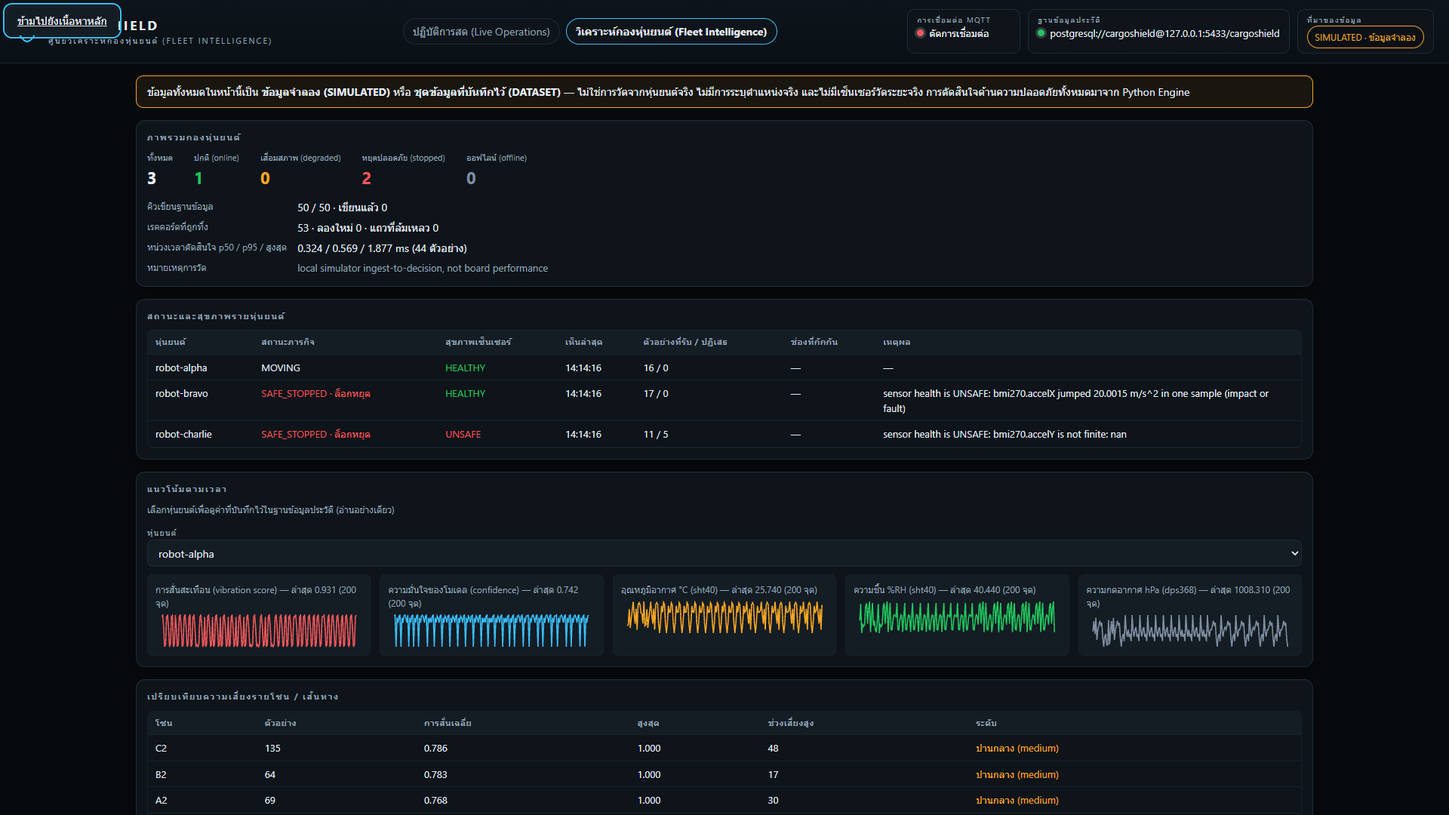
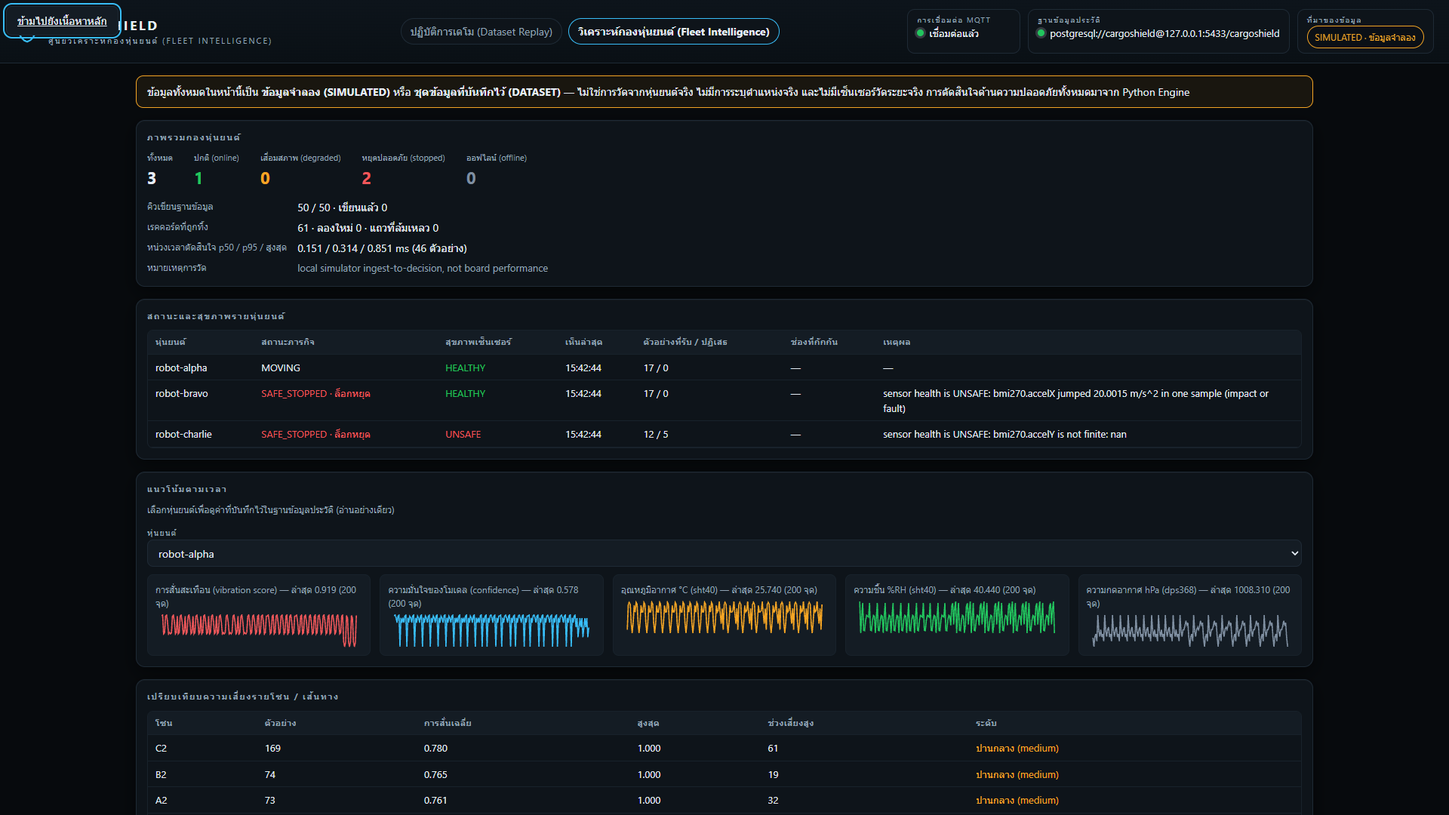
Clarify dataset replay provenance

diff --git a/webapp/index.html b/webapp/index.html
@@ -3,7 +3,7 @@
 <head>
 <meta charset="utf-8">
 <meta name="viewport" content="width=device-width, initial-scale=1">
-<title>CargoShield · ศูนย์ควบคุมหุ่นยนต์ 3 มิติ</title>
+<title>CargoShield · ศูนย์สาธิต Dataset Replay 3 มิติ</title>
 <link rel="icon" href="./favicon.svg" type="image/svg+xml">
 <link rel="stylesheet" href="./styles.css">
 <script type="importmap">
@@ -20,12 +20,12 @@
     </svg>
     <div>
       <h1>CargoShield</h1>
-      <p class="brand-sub">ศูนย์ควบคุมหุ่นยนต์ 3 มิติ</p>
+      <p class="brand-sub">ศูนย์สาธิต Dataset Replay 3 มิติ</p>
     </div>
   </div>
 
   <nav class="nav" aria-label="สลับหน้าจอ">
-    <a href="./index.html" aria-current="page">ปฏิบัติการสด (Live Operations)</a>
+    <a href="./index.html" aria-current="page">ปฏิบัติการเดโม (Dataset Replay)</a>
     <a href="./fleet.html">วิเคราะห์กองหุ่นยนต์ (Fleet Intelligence)</a>
   </nav>
 
@@ -43,7 +43,7 @@
       <span class="stat-value"><strong id="status" class="tone-idle" role="status" aria-live="polite">—</strong></span>
     </div>
     <div class="stat">
-      <span class="stat-key">สถานะล่าสุด</span>
+      <span class="stat-key">อัปเดตสถานะ MQTT ล่าสุด</span>
       <span class="stat-value" id="age">ยังไม่มีข้อมูล</span>
     </div>
   </div>
@@ -66,7 +66,7 @@
       <li><i class="swatch" style="--swatch:#ef4444"></i>เขตหยุดปลอดภัย</li>
     </ul>
 
-    <p class="stage-note">ภาพจำลองเท่านั้น — การตัดสินใจทั้งหมดมาจาก Python Engine</p>
+    <p class="stage-note">ภาพจาก Dataset Replay — ไม่ใช่ตำแหน่งหรือการวัดจากหุ่นยนต์จริง การตัดสินใจทั้งหมดมาจาก Python Engine</p>
     <div id="stage-fallback" class="stage-fallback" hidden role="alert">
       <strong>เบราว์เซอร์นี้ไม่รองรับ WebGL</strong>
       <span>ส่วนควบคุมและข้อมูลสถานะยังใช้งานได้ตามปกติ</span>
@@ -78,7 +78,7 @@
     <section class="panel">
       <h2>ควบคุมภารกิจ</h2>
       <div class="btn-row">
-        <button type="button" data-cmd="start" class="primary">เริ่มภารกิจ</button>
+        <button type="button" data-cmd="start" class="primary">เริ่ม Dataset Replay</button>
         <button type="button" data-cmd="pause">หยุดชั่วคราว</button>
         <button type="button" data-cmd="manual_resume">ทำงานต่อ / ปลด Safe Stop</button>
         <button type="button" data-cmd="reset" class="danger">รีเซ็ต</button>
@@ -119,15 +119,15 @@
     </section>
 
     <section class="panel">
-      <h2>สถานะภารกิจ</h2>
+      <h2>สถานะภารกิจเดโม</h2>
       <dl class="readout">
         <dt>สินค้า</dt><dd id="v-cargo_type">—</dd>
         <dt>โซน</dt><dd id="v-zone">—</dd>
         <dt>สิ่งกีดขวาง</dt><dd id="v-obstacle_distance">—</dd>
-        <dt>แหล่งข้อมูล</dt><dd id="v-source">—</dd>
+        <dt>โหมดข้อมูล</dt><dd id="v-source" class="wrap">—</dd>
       </dl>
       <p class="field">
-        <label for="v-progress">ความคืบหน้า <output id="progress-value" for="v-progress">—</output></label>
+        <label for="v-progress"><span id="progress-label">ความคืบหน้า</span> <output id="progress-value" for="v-progress">—</output></label>
         <progress id="v-progress" max="1" value="0"></progress>
       </p>
     </section>

diff --git a/webapp/app.js b/webapp/app.js
@@ -44,10 +44,19 @@ function toast(message, bad = false) {
 /* ---------------- controls ---------------- */
 
 const CARGO_LABELS = { standard: 'สินค้าทั่วไป', fragile: 'สินค้าเปราะบาง' };
-const PROVENANCE_LABELS = {
-  dataset: 'ชุดข้อมูลที่บันทึกไว้ ไม่ใช่การวัดสด',
-  simulated: 'ข้อมูลจำลอง',
-  hardware: 'ฮาร์ดแวร์จริง',
+const SOURCE_PRESENTATION = {
+  dataset: {
+    label: 'DATASET REPLAY · validation split แยกจาก train/test · ไม่ใช่การวัดสด',
+    progress: 'ความคืบหน้าการ Replay',
+  },
+  simulated: {
+    label: 'SIMULATION · ข้อมูลสังเคราะห์ · ไม่ใช่การวัดสด',
+    progress: 'ความคืบหน้าสถานการณ์จำลอง',
+  },
+  hardware: {
+    label: 'LIVE HARDWARE · การวัดสดจากอุปกรณ์',
+    progress: 'ความคืบหน้าภารกิจสด',
+  },
 };
 $('cargo').append(...CARGO_TYPES.map((value) => new Option(`${CARGO_LABELS[value]} (${value})`, value)));
 for (const select of [$('pickup'), $('destination')]) {
@@ -226,10 +235,10 @@ function render(state) {
   // The raw enum, kept out of the visible text so the label can be translated freely.
   statusNode.dataset.status = show(status);
   statusNode.dataset.states = String(++statesRendered);
-  // Provenance is stated in the contract's own vocabulary. `dataset` lowercase read as a config
-  // value; DATASET reads as the claim it actually is.
   const source = read(state, 'source');
-  $('v-source').textContent = source ? `${String(source).toUpperCase()} · ${PROVENANCE_LABELS[source] ?? 'ที่มาไม่ระบุ'}` : NA;
+  const presentation = SOURCE_PRESENTATION[source];
+  $('v-source').textContent = presentation?.label ?? (source ? `${String(source).toUpperCase()} · ที่มาไม่ระบุ` : NA);
+  $('progress-label').textContent = presentation?.progress ?? 'ความคืบหน้า';
   $('v-error').textContent = state?.error ?? state?.source_diagnostic ?? 'ไม่มี';
 
   const distance = read(state, 'obstacle_distance');

diff --git a/webapp/fleet.html b/webapp/fleet.html
@@ -24,7 +24,7 @@
   </div>
 
   <nav class="nav" aria-label="สลับหน้าจอ">
-    <a href="./index.html">ปฏิบัติการสด (Live Operations)</a>
+    <a href="./index.html">ปฏิบัติการเดโม (Dataset Replay)</a>
     <a href="./fleet.html" aria-current="page">วิเคราะห์กองหุ่นยนต์ (Fleet Intelligence)</a>
   </nav>
 

diff --git a/scripts/webapp_ui_check.py b/scripts/webapp_ui_check.py
@@ -205,6 +205,11 @@ def main() -> None:
             "age": page.inner_text("#age"),
             "rendered_before_any_click": True,
         }
+        evidence["provenance_ui"] = {
+            "source": page.inner_text("#v-source"),
+            "progress_label": page.inner_text("#progress-label"),
+            "start_button": page.inner_text('button[data-cmd="start"]'),
+        }
         evidence["webgl"] = {
             "canvas_visible": page.is_visible("#stage"),
             "fallback_shown": page.is_visible("#stage-fallback"),
@@ -238,6 +243,9 @@ def main() -> None:
             # Without WebGL the panels must carry the demo on their own, and neither variant may error.
             evidence["passed"] = (
                 evidence["passed"]
+                and "ไม่ใช่การวัดสด" in evidence["provenance_ui"]["source"]
+                and "replay" in evidence["provenance_ui"]["progress_label"].casefold()
+                and "dataset replay" in evidence["provenance_ui"]["start_button"].casefold()
                 and fallbacks["no_webgl"]["fallback_shown"]
                 and fallbacks["no_webgl"]["controls_usable"]
                 and not fallbacks["no_webgl"]["console_errors"]

diff --git a/tests/test_mqtt_service.py b/tests/test_mqtt_service.py
@@ -4,9 +4,11 @@ import unittest
 from pathlib import Path
 from types import SimpleNamespace
 
+import numpy as np
 
 from cargo.mqtt_service import DEMO_SEQUENCE, REPLAY_INTERVAL_S, CargoMqttService
 from cargo.routing import DEMO_GRAPH, choose_route
+from cargo.simulator import PROFILE_WINDOWS
 
 
 class _EmptySource:
@@ -166,6 +168,15 @@ class DemoReplaySequenceTests(unittest.TestCase):
         seconds = len(DEMO_SEQUENCE) * REPLAY_INTERVAL_S
         self.assertGreaterEqual(seconds, 8)
         self.assertLessEqual(seconds, 12)
+
+    def test_runtime_demo_windows_are_validation_only(self):
+        root = Path(__file__).resolve().parents[1]
+        with np.load(root / "models" / "split_indices.npz") as split:
+            runtime = set(DEMO_SEQUENCE)
+            runtime.update(index for windows in PROFILE_WINDOWS.values() for index in windows)
+            self.assertTrue(runtime <= set(split["validation"].tolist()))
+            self.assertTrue(runtime.isdisjoint(set(split["train"].tolist())))
+            self.assertTrue(runtime.isdisjoint(set(split["test"].tolist())))
 
     def test_replay_interval_is_configurable_independently_of_window_count(self):
         root = Path(__file__).resolve().parents[1]

diff --git a/cargo/mqtt_service.py b/cargo/mqtt_service.py
@@ -21,12 +21,10 @@ REPLAY_INTERVAL_S = 1.0
 # How long a new Start waits for a finished run's thread to exit before reporting a conflict.
 REPLAY_HANDOVER_TIMEOUT_S = 2.0
 
-# Curated dataset demonstration sequence, not an evaluation result: fixed indices into the
-# local CareerCon windows, chosen so one run exercises every low/medium/high vibration band
-# and both the confident and the below-threshold model responses. Predictions, confidences and
-# risk bands stay exactly what the trained model returns for these real stored windows;
-# held-out metrics come from reports/metrics.json alone.
-DEMO_SEQUENCE = (278, 279, 25, 26, 3, 1, 13, 42, 23, 280)
+# Curated validation-split replay, not an evaluation result: these train-disjoint CareerCon
+# windows exercise every low/medium/high vibration band and both confident and below-threshold
+# responses. The untouched test split remains reserved for metrics in reports/metrics.json.
+DEMO_SEQUENCE = (2460, 526, 2462, 5144, 2175, 1244, 2235, 5733, 2220, 1238)
 
 
 class CargoMqttService:

diff --git a/tests/test_webapp_controls.py b/tests/test_webapp_controls.py
@@ -74,6 +74,16 @@ class WebappControlsTests(unittest.TestCase):
         source = (WEBAPP / "app.js").read_text(encoding="utf-8")
         self.assertIn("client.publish(topic.command, payload, { qos: 1 })", source)
 
+    def test_operator_ui_labels_recorded_input_as_dataset_replay(self):
+        index = (WEBAPP / "index.html").read_text(encoding="utf-8")
+        fleet = (WEBAPP / "fleet.html").read_text(encoding="utf-8")
+        app = (WEBAPP / "app.js").read_text(encoding="utf-8")
+        self.assertNotIn("ปฏิบัติการสด", index + fleet)
+        self.assertIn("เริ่ม Dataset Replay", index)
+        self.assertIn('id="progress-label"', index)
+        self.assertIn("ไม่ใช่การวัดสด", app)
+        self.assertIn("ความคืบหน้าการ Replay", app)
+
     def test_every_display_path_exists_in_a_real_state_payload(self):
         client = FakeClient()
         service = CargoMqttService(ROOT, client=client, interval_s=0)

diff --git a/cargo/simulator.py b/cargo/simulator.py
@@ -28,12 +28,12 @@ from .sources import DatasetReplaySource
 
 HEALTHY, HIGH_VIBRATION, FAULTY = "healthy", "high_vibration", "faulty"
 
-# Windows chosen so each profile exercises a different part of the model's response. They are
-# indices into the stored dataset, not results.
+# Train-disjoint validation windows chosen so each profile exercises a different part of the
+# model's response. They drive a demo, never the held-out test metrics.
 PROFILE_WINDOWS = {
-    HEALTHY: (278, 279, 25, 26, 3),
-    HIGH_VIBRATION: (1, 13, 42, 23, 280),
-    FAULTY: (278, 25, 3, 42, 280),
+    HEALTHY: (2460, 526, 2462, 5144, 2175),
+    HIGH_VIBRATION: (1244, 2235, 5733, 2220, 1238),
+    FAULTY: (2460, 2462, 5144, 2220, 1238),
 }
 
 GRAVITY_MS2 = 9.81

diff --git a/cargo/maintenance.py b/cargo/maintenance.py
@@ -139,7 +139,7 @@ class MaintenanceContext:
             " ORDER BY reason LIMIT 20", (robot_id,))
         steps = [
             "Confirm the robot is powered down and physically safe to approach.",
-            "Record the current Safe Stop reason from Live Operations before clearing anything.",
+            "Record the current Safe Stop reason from the operator console before clearing anything.",
         ]
         for fault in faults:
             reason = str(fault["reason"])

diff --git a/important_notes/CARGOSHIELD_EDGE_PROJECT_SUMMARY.md b/important_notes/CARGOSHIELD_EDGE_PROJECT_SUMMARY.md
@@ -185,7 +185,7 @@ Obstacle distance = 20
 
 ### Curated dataset demonstration sequence
 
-รอบสาธิตใช้ชุด index คงที่ 10 หน้าต่างจากข้อมูลจริงในเครื่อง (`cargo.mqtt_service.DEMO_SEQUENCE`) เว้นระยะหน้าต่างละ `REPLAY_INTERVAL_S = 1.0` วินาที รวมประมาณ 10 วินาทีต่อรอบ ปรับจังหวะได้ด้วย `--interval` โดยไม่ต้องแก้ว่าใช้ข้อมูลหน้าต่างไหน
+รอบสาธิตใช้ชุด index คงที่ 10 หน้าต่างจาก validation split ที่ไม่อยู่ใน train split (`cargo.mqtt_service.DEMO_SEQUENCE`) เว้นระยะหน้าต่างละ `REPLAY_INTERVAL_S = 1.0` วินาที รวมประมาณ 10 วินาทีต่อรอบ ปรับจังหวะได้ด้วย `--interval` โดยไม่ต้องแก้ว่าใช้ข้อมูลหน้าต่างไหน ชุดนี้เป็น Dataset Replay ไม่ใช่การวัดเซนเซอร์สด และไม่ใช้แทนผลประเมินจาก test split
 
 ชุดนี้ถูกเลือกให้ครอบคลุมทั้ง vibration risk `low`, `medium`, `high` และทั้งกรณีที่โมเดลมั่นใจและไม่มั่นใจ **ค่าที่แสดงทุกตัวเป็นผลจริงของโมเดลบนหน้าต่างจริง ไม่มีการปลอมค่า confidence หรือผลทำนาย และไม่มีการลด `minimum_confidence`**
 
@@ -266,7 +266,7 @@ speed_ratio = 0.0
 - BLE เดิมไม่ได้ถูกแก้
 - Firmware, VSIX, HEX และ Flasher ไม่ได้ถูกแก้
 - State ปกติ retain แล้ว Flow ที่ subscribe ทีหลังจึงเห็นสถานะทันที
-- Obstacle controls ตอบสนองสดตาม contract ด้านบนแล้ว
+- Obstacle controls ตอบสนองทันทีต่อ input จำลองตาม contract ด้านบนแล้ว
 - Replay เป็นชุดสาธิต 10 หน้าต่าง ~10 วินาที แสดงครบทั้ง MOVE, HOLD_UNCERTAIN และความต่างของ cargo policy
 - ตรวจ end-to-end ผ่าน broker จริงด้วย `scripts/demo_e2e_check.py` เก็บหลักฐานไว้ที่ `reports/demo_e2e_evidence.json` (14/14)
 - **3D Operator Console ใน `webapp/` เสร็จแล้ว** ฉากคลังสินค้า Three.js แบบ procedural, โซน `A1..C2` จาก `DEMO_GRAPH` จริง, เส้นทางจาก `route.nodes`, heat overlay จาก `risk_map`, AGV พร้อมล้อและกล่องสินค้า (standard/fragile ต่างกันชัดเจน), obstacle marker ตามระยะจริง, orbit/pan/zoom + Reset camera
@@ -275,7 +275,7 @@ speed_ratio = 0.0
 - ผลทดสอบล่าสุด:
 
 ```text
-58 passed
+131 passed, 111 subtests
 ```
 
 ---
@@ -422,7 +422,7 @@ visual-flow/cargoshield-edge.trn-flow-preset.json
 
 ## สิ่งที่ยังเป็น Prototype
 
-- Obstacle Distance ยังมาจาก Slider หรือคำสั่งจำลอง (ตัว logic ตอบสนองสดแล้ว แต่ตัวเลขระยะยังเป็น input จำลอง)
+- Obstacle Distance ยังมาจาก Slider หรือคำสั่งจำลอง (ตัว logic ตอบสนองทันที แต่ตัวเลขระยะยังเป็น input จำลอง)
 - ยังไม่มี ToF หรือ Ultrasonic Sensor จริง
 - ลำดับ 10 หน้าต่างในรอบสาธิตเป็น curated sequence ที่เลือกไว้ล่วงหน้า ไม่ใช่การสุ่มหรือการวิ่งจริงบนพื้น
 - Zone ที่เดินระหว่างสาธิตมาจาก route ที่วางไว้ตอนเริ่ม ไม่ได้มาจากตำแหน่งจริงของหุ่นยนต์
@@ -459,7 +459,7 @@ CargoShield Edge ไม่ได้เป็นเพียงระบบตร
 
 ## คำอธิบายแบบสั้น
 
-> CargoShield Edge คือระบบ AI สำหรับหุ่นยนต์ขนส่งสินค้า ซึ่งใช้ข้อมูลจาก IMU เพื่อจำแนกพื้นผิวและประเมินแรงสั่นสะเทือน จากนั้นปรับความเร็วและเส้นทางตามความเปราะบางของสินค้า พร้อมระบบชะลอ หยุดรอ และ Safe Stop เมื่อพบความเสี่ยง โดยเผยแพร่สถานะทั้งหมดผ่าน MQTT แบบเรียลไทม์ เพื่อให้ Dashboard และ Digital Twin ใน Sensor Studio นำไปแสดงผล
+> CargoShield Edge คือ Prototype ระบบ AI สำหรับหุ่นยนต์ขนส่งสินค้า ปัจจุบันใช้ IMU windows ที่บันทึกไว้จาก validation split มา Replay เข้าโมเดล แล้วเผยแพร่ผลของแต่ละ window ผ่าน MQTT ขณะ Replay เพื่อให้ Dashboard และ Digital Twin แสดงการตัดสินใจ ระบบยังไม่ได้วัดเซนเซอร์สดจากหุ่นยนต์จริง
 
 Dashboard และ Digital Twin เป็นเป้าหมายที่ยังต้องสร้าง ตอนนี้มีเฉพาะฝั่ง MQTT ที่ส่ง State ครบทุก Path แล้ว
 
@@ -476,10 +476,10 @@ Route / Risk Map         : ทำงานแล้ว
 Collision Logic          : ทำงานแล้ว
 HOLDING / SAFE_STOP      : ทำงานแล้ว
 MQTT Bridge              : ทำงานแล้ว
-Obstacle Contract        : ทำงานแล้ว (ตอบสนองสด)
+Obstacle Contract        : ทำงานแล้ว (ตอบสนองทันทีต่อ input จำลอง)
 Demo Replay              : ทำงานแล้ว (10 หน้าต่าง ~10 วินาที)
 End-to-End MQTT          : ตรวจผ่านแล้ว 14/14 (reports/demo_e2e_evidence.json)
-Automated Tests          : 58 passed
+Automated Tests          : 131 passed, 111 subtests
 3D Operator Console      : ทำงานแล้ว ตรวจในเบราว์เซอร์จริงแล้ว (reports/webapp_ui_evidence.json)
 Sensor Studio Dashboard  : ยังต้องสร้างด้วยมือ (เป้าหมายถัดไป)
 Visual Flow Export       : ยังไม่มี ต้องคลิก Export ใน Studio (เป้าหมายถัดไป)

diff --git a/docs/FLEET_GUARDIAN_FINAL_REPORT.md b/docs/FLEET_GUARDIAN_FINAL_REPORT.md
@@ -16,7 +16,7 @@ The single-robot CargoShield demo is now a multi-robot Fleet Guardian prototype:
 - a narrow read-only history API, with no browser-to-database path anywhere;
 - a one-command three-robot scenario that also proves database-outage survival and per-robot
   isolation;
-- two coherent UI surfaces — the existing Thai-first Three.js Live Operations console, plus a new
+- two coherent UI surfaces — the existing Thai-first Three.js Dataset Replay console, plus a new
   Fleet Intelligence dashboard;
 - the previously unused 1 824-window validation split now selects the confidence-rejection
   threshold, and that choice measurably improves held-out behaviour;
@@ -34,7 +34,7 @@ Two things the goal asked for that are **not** delivered, and why:
 ## 2. Architecture and data flow
 
 ```
-                        ┌──────────────────────────── real-time, in memory ─────────────────────────────┐
+                        ┌──────────────────── synchronous safety path, in memory ───────────────────────┐
  robot telemetry        │                                                                               │
  cargoshield/{id}/      │   contracts.validate_envelope ──► SequenceGate ──► HealthMonitor (per robot)   │
    telemetry  ──────────┼──►  (trust boundary)             (dup / order)    (11 deterministic checks)    │
@@ -52,7 +52,7 @@ Two things the goal asked for that are **not** delivered, and why:
    cargoshield/{id}/events (NOT retained)    → batch writer thread → PostgreSQL       (retained)
                     │                                       │
                     ▼                                       ▼
-        Live Operations (MQTT/WS)              read-only history API :8099 ──► Fleet Intelligence
+        Dataset Replay (MQTT/WS)               read-only history API :8099 ──► Fleet Intelligence
                                                             │
                                                             ▼
                                         MaintenanceContext (SELECT-only role) ──► future copilot
@@ -60,9 +60,9 @@ Two things the goal asked for that are **not** delivered, and why:
 
 The three rules this diagram exists to make checkable:
 
-1. Nothing below the dashed real-time box can block anything inside it. `FleetGuardian.sink` is
+1. Nothing below the dashed safety-path box can block anything inside it. `FleetGuardian.sink` is
    called after the decision is made, and a sink that raises is counted and ignored.
-2. The browser never reaches PostgreSQL. It has two inputs: MQTT for live state, HTTP GET for
+2. The browser never reaches PostgreSQL. It has two inputs: MQTT for current retained state, HTTP GET for
    history.
 3. Commands travel only on `cargoshield/{robot_id}/command`. The history API is GET-only and the
    maintenance context has no transport at all.
@@ -267,12 +267,12 @@ PostgreSQL 16 in Docker on `127.0.0.1:5433`, one `cargo.mqtt_service --device-id
 
 | # | Command | Result |
 | --- | --- | --- |
-| 1 | `python -m pytest -q` | **PASSED — 129 passed, 111 subtests, 3 consecutive runs** (43.91 s / 45.19 s / 41.91 s). Baseline was 58 passed |
-| 2 | `python -m compileall -q cargo training scripts tests` | **PASSED** — exit 0, 3 consecutive runs |
-| 3 | `python scripts\smoke_mqtt_flow.py --dataset-demo` | **PASSED** — 3 consecutive runs |
-| 4 | `python scripts\demo_e2e_check.py` | **PASSED** — all 14 checks, 3 consecutive runs (was flaky at baseline) |
-| 5 | `python scripts\fleet_scenario.py` | **PASSED** — all 12 checks, 3 consecutive runs; every run used a unique `run_id` and current-run-only database query |
-| 6 | `python scripts\webapp_ui_check.py --url "http://127.0.0.1:8080/?device=ui-verify"` | **PASSED** — 3 consecutive runs, **0 console errors**, 12 screenshots, both surfaces |
+| 1 | `python -m pytest -q` | **PASSED — 131 passed, 111 subtests** (40.02 s). Baseline was 58 passed |
+| 2 | `python -m compileall -q cargo training scripts tests` | **PASSED** — exit 0 |
+| 3 | `python scripts\smoke_mqtt_flow.py --dataset-demo` | **PASSED** — status `COMPLETED` |
+| 4 | `python scripts\demo_e2e_check.py` | **PASSED** — all 14 checks (was flaky at baseline) |
+| 5 | `python scripts\fleet_scenario.py` | **PASSED** — all 12 checks; unique `run_id` and current-run-only database query |
+| 6 | `python scripts\webapp_ui_check.py --url "http://127.0.0.1:8080/?device=ui-verify"` | **PASSED** — **0 console errors**, 12 screenshots, both surfaces |
 | 7 | `python -m cargo.db` | **PASSED** — migration applied once, second run a no-op |
 | 8 | `python -m training.select_confidence` | **PASSED** — threshold 0.55 written |
 | 9 | `python -m training.evaluate_baseline` | **PASSED** — §6 |
@@ -360,7 +360,7 @@ Sensor-ingest-to-safety-decision, 68 samples across 3 robots, from `reports/flee
 
 | p50 | p95 | max | mean |
 | --- | --- | --- | --- |
-| **0.2764 ms** | **0.5975 ms** | 1.9027 ms | 0.3335 ms |
+| **0.1574 ms** | **0.3140 ms** | 0.8507 ms | 0.1844 ms |
 
 Persistence does not materially change it: `test_a_slow_sink_does_not_slow_the_decision_materially`
 runs 200 samples through a guardian whose sink is a real historian queue and asserts p95 < 5 ms;
@@ -377,7 +377,7 @@ writer committed 93 records; all healthy writer phases committed 174 records tot
 table totals remain visible for operations but are explicitly excluded from acceptance.
 
 **Limitations of these numbers.** Single workstation, one broker, three robots, ~50 ms nominal
-sample interval, ~70 decisions per measured run. The `max` of 1.9027 ms is a scheduling outlier, not a
+sample interval, ~70 decisions per measured run. The `max` of 0.8507 ms is a scheduling outlier, not a
 worst case under load. No sustained-throughput or many-robot test was run, so no throughput ceiling
 is claimed. Windows `sleep()` overshoot means the simulator's real cadence is looser than nominal —
 which is why `observed_ms` is stamped from the wall clock.
@@ -436,9 +436,9 @@ a static server for `webapp/`, then open `index.html` and `fleet.html`.
 1. Three simulated robots ingest concurrently through versioned, robot-scoped MQTT contracts, with
    per-robot isolation proven by test and by scenario evidence.
 2. A deterministic Python Safety Core makes every Stop/Slow/Hold/Move decision, measured at
-   p50 0.1586 ms / p95 0.4404 ms ingest-to-decision **in the local simulator**.
-3. Robot safety survives a PostgreSQL outage; 24 decisions were made with the database gone, and
-   144 dropped history records were counted rather than lost silently.
+   p50 0.1574 ms / p95 0.3140 ms ingest-to-decision **in the local simulator**.
+3. Robot safety survives a PostgreSQL outage; 27 decisions were made with the database gone, and
+   61 dropped history records were counted rather than lost silently.
 4. Surface classification is a real scikit-learn model over real stored CareerCon windows:
    macro F1 0.5156 on a group-disjoint held-out split — comparable to the source paper's own
    XGBoost result of 59.5 % accuracy on the same dataset.

diff --git a/docs/CARGOSHIELD_VISUAL_FLOW_RUNBOOK.md b/docs/CARGOSHIELD_VISUAL_FLOW_RUNBOOK.md
@@ -58,7 +58,7 @@ Split the job accordingly:
 
 | Job | Where | Status |
 |---|---|---|
-| Show live mission state | Sensor Studio flow: an MQTT subscriber into display nodes from the enabled `connectivity`/`output` categories | to be built and confirmed in the UI |
+| Show current replay state | Sensor Studio flow: an MQTT subscriber into display nodes from the enabled `connectivity`/`output` categories | to be built and confirmed in the UI |
 | Send operator commands | `webapp/`, a local page using the extension's own bundled Live-Data SDK over MQTT-over-WebSocket | built and driven in a browser; contract covered by `tests/test_webapp_controls.py` |
 | Show the mission in 3D | `webapp/scene.js`, a local Three.js warehouse fed by the same retained state | built and driven in a browser; evidence in `reports/webapp_ui_evidence.json` |
 
@@ -200,7 +200,7 @@ Use the Studio's own Export command and save to `visual-flow/cargoshield-edge.tr
 
 ## Demonstration sequence
 
-1. Publish or wire `{ "action": "start" }`. The service replays the ten-window curated dataset demonstration sequence over about ten seconds, emitting prediction, confidence, vibration risk, decision, route, zone and progress for each window. The run walks `A1 -> C2` and shows `MOVE` at low, medium and high vibration risk plus `HOLD_UNCERTAIN` on the below-threshold windows — every value is the trained model's real output for those stored windows.
+1. Publish or wire `{ "action": "start" }`. The service replays ten curated train-disjoint validation windows over about ten seconds, emitting prediction, confidence, vibration risk, decision, route, zone and replay progress for each window. This is not a live sensor measurement and not a held-out metric. The run walks `A1 -> C2` and shows `MOVE` at low, medium and high vibration risk plus `HOLD_UNCERTAIN` on the below-threshold windows — every value is the trained model's real output for those stored windows.
 2. Choose **Standard**, start, let it finish; then choose **Fragile** and start again. Identical windows return different speed ratios: `1.0 / 0.75 / 0.5` for standard against `0.8 / 0.45 / 0.25` for fragile, with a `stability-first` route reason.
 3. Mid-run send `{ "action": "pause" }`; progress freezes. Send `{ "action": "manual_resume" }` to continue the same run.
 4. Mid-run send `{ "action": "set_obstacle", "distance": 50 }` for `SLOWING`, then `20` for `SAFE_STOPPED`. The safe stop latches and ends that run at the instant it is raised — whether the operator caused it or a replayed window did. `{ "action": "clear_obstacle" }` does **not** release the latch; only `{ "action": "manual_resume" }` does, and the operator then presses **Start** to run again. Progress stays frozen where it stopped, and the mission returns to `READY` rather than claiming `MOVING`, because nothing is stepping windows. Restarting while the obstacle is still inside the stop region latches again instead of driving through it.
